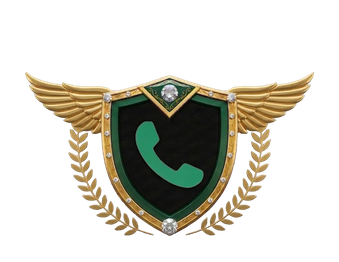
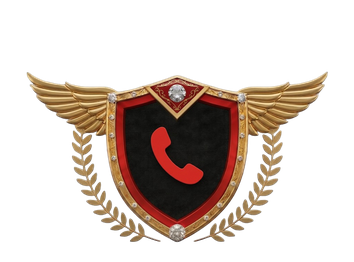
Prompt 521: recolor Dials from green to red
Green got reassigned to Commission, so Dials moves to red (sampled
from the new source art) to stay visually distinct. Asset swap
(hash-verified) + one glow color constant, no structural change.

Changed region(s): [[0.059, 0.2748, 0.944, 0.9466]]

diff --git a/src/pages/MyGoals.jsx b/src/pages/MyGoals.jsx
@@ -125,7 +125,11 @@ function ProgressTile({ label, value, target }) {
 const PNG_BADGE_CATEGORIES = {
   dials: {
     title: 'Dials',
-    glow: 'drop-shadow-[0_0_10px_rgba(31,138,95,0.6)]',
+    // Recolored 2026-08-24: Dials' original green got reassigned to
+    // Commission, so Dials moved to red (sampled from the new source
+    // art) to stay visually distinct from it — asset swap + this one
+    // color constant, no structural change.
+    glow: 'drop-shadow-[0_0_10px_rgba(220,43,36,0.6)]',
     format: (n) => n.toLocaleString(),
     tileLabel: (n) => `${n.toLocaleString()} dials`,
   },
@@ -148,8 +152,10 @@ const PNG_BADGE_CATEGORIES = {
   commission: {
     slug: 'commission',
     title: 'Commission',
-    // Same green Dials' glow uses, not a distinct hue — Brayden put
-    // Commission on this green before this round's art got generated.
+    // Was described as "the same green Dials uses" when this entry
+    // was added — that's now historical only: Dials moved to red the
+    // same day, so this hex (still `rgba(31,138,95,0.6)`) is Commission's
+    // own green rather than a shared one, unchanged by Dials' recolor.
     glow: 'drop-shadow-[0_0_10px_rgba(31,138,95,0.6)]',
     format: (n) => `$${n.toLocaleString(undefined, { maximumFractionDigits: 0 })}`,
     sectionSub: '15% of setup fee + first month, paid once a deal you booked reaches Closed',
